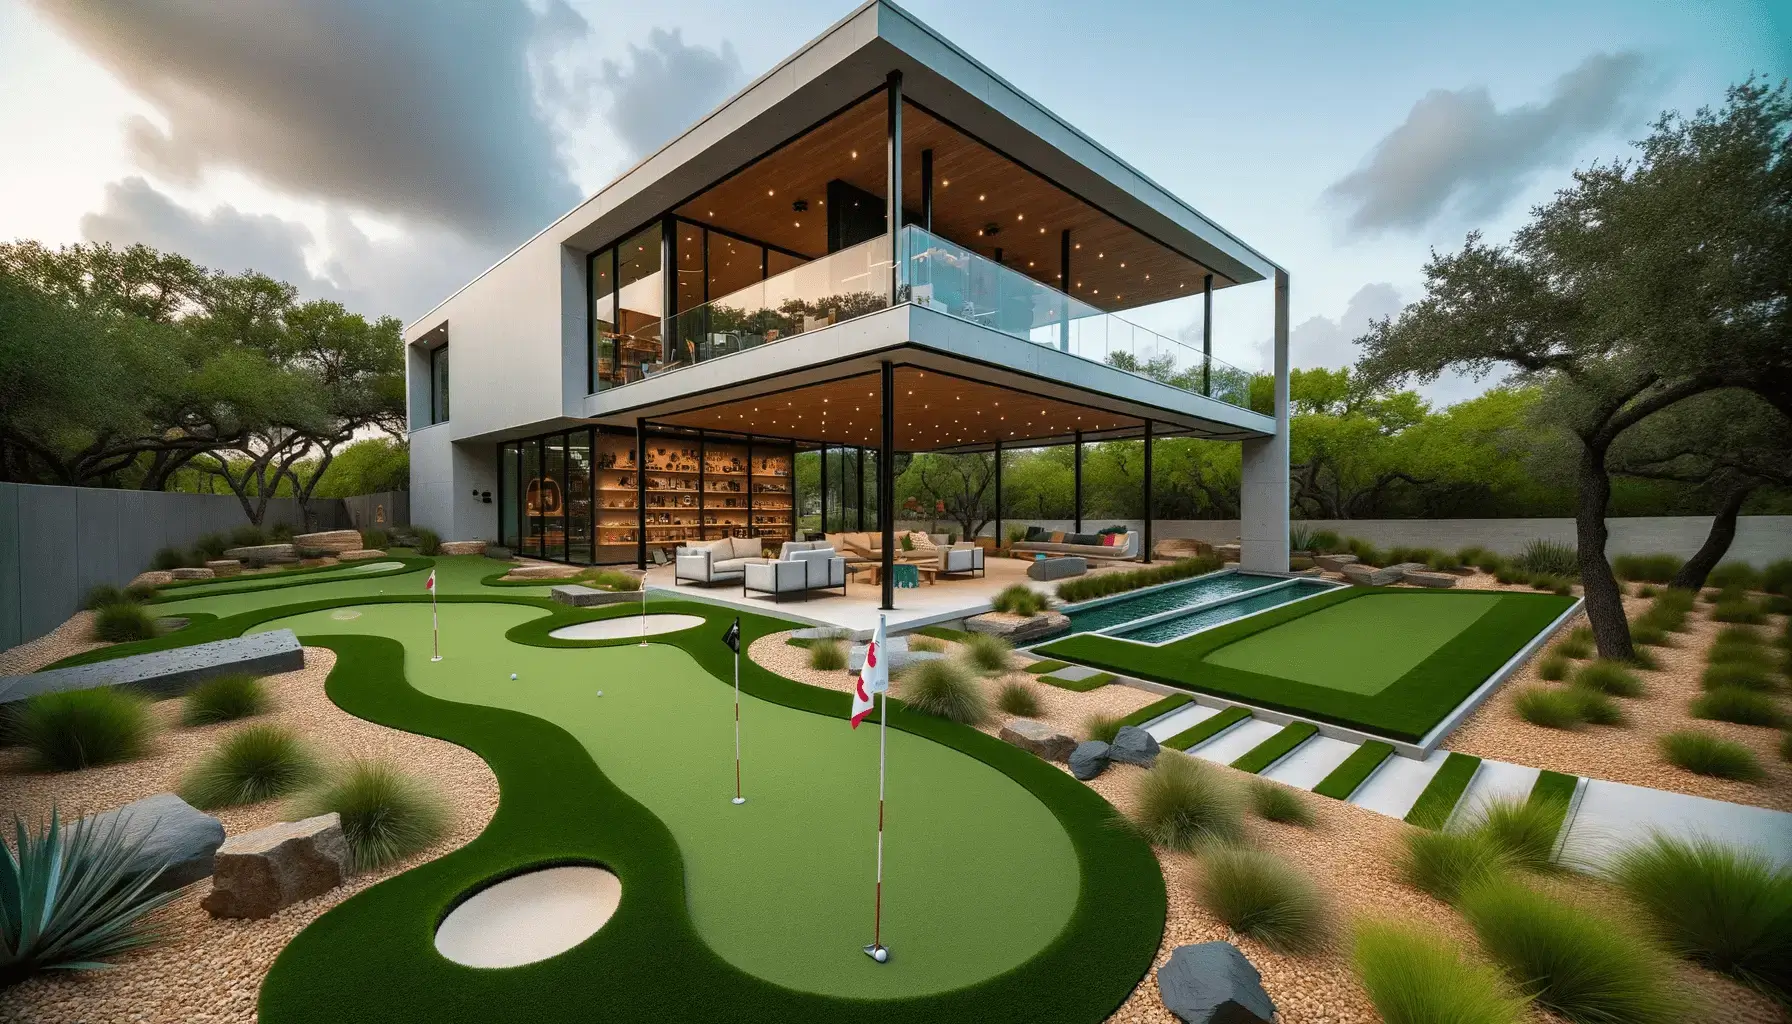
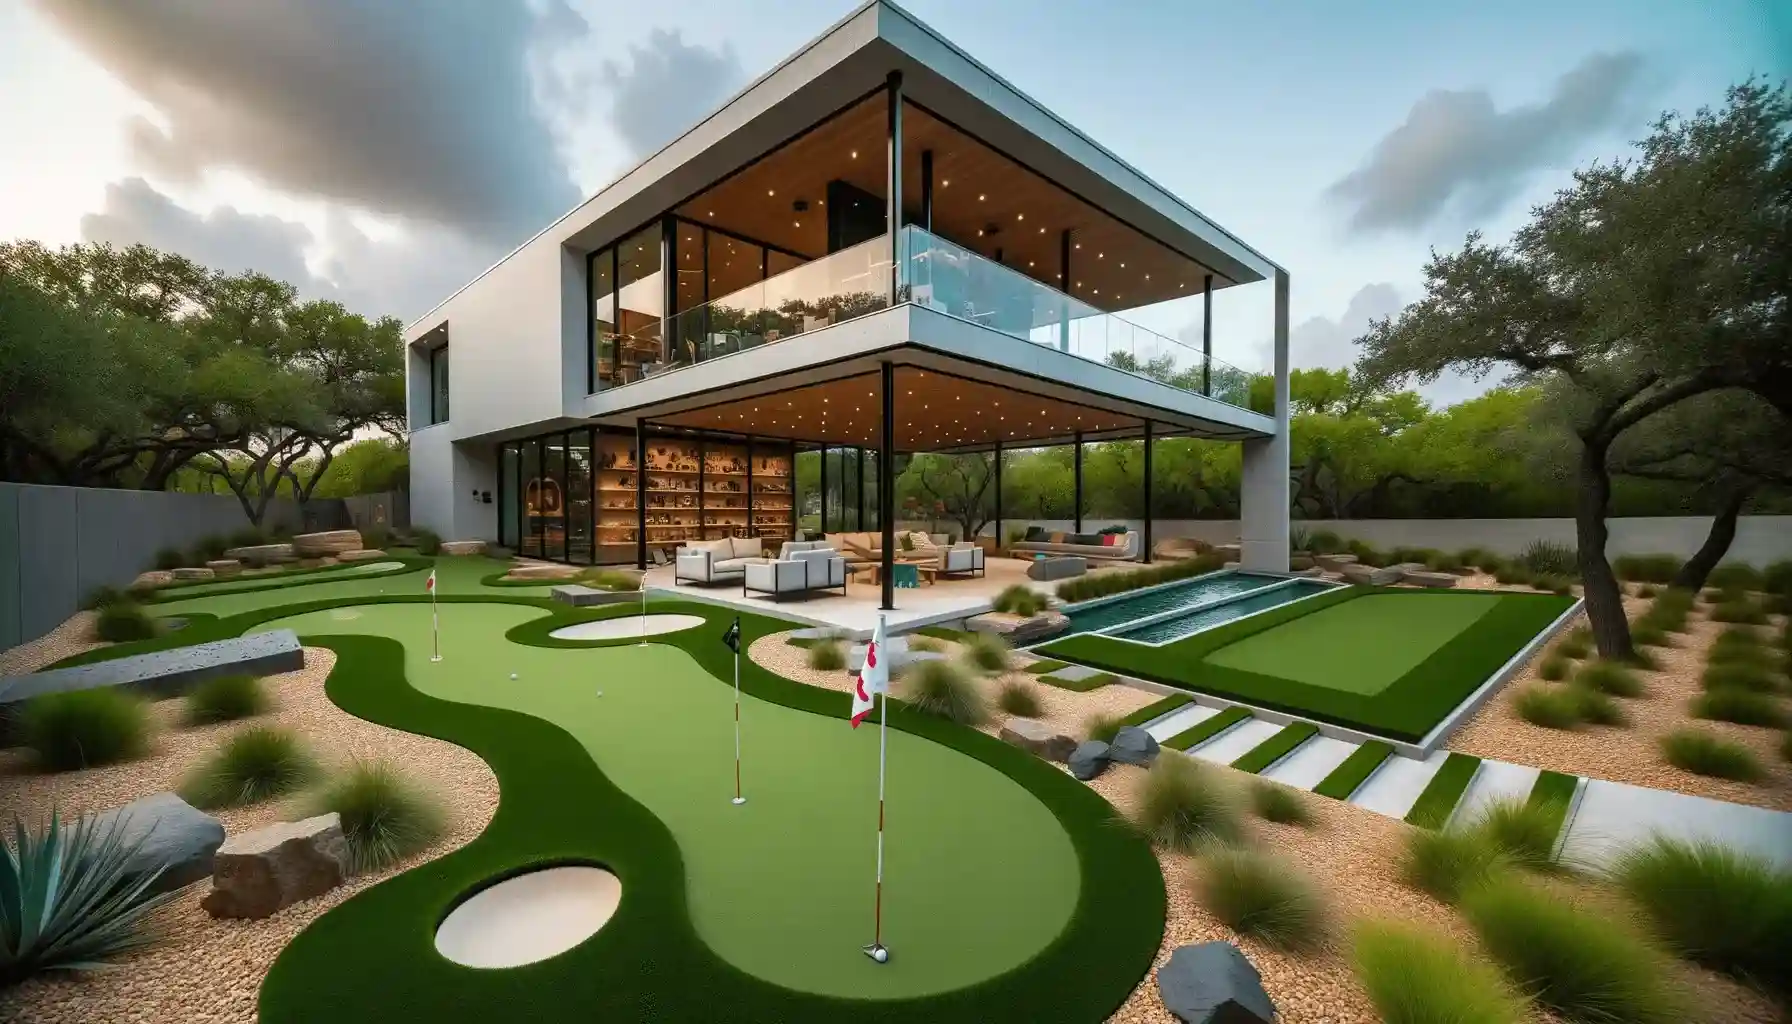
optimize hero imae

diff --git a/src/Pages/LandingPage/LandingPage.css b/src/Pages/LandingPage/LandingPage.css
@@ -85,6 +85,9 @@
         font-weight: bold;
         padding: 6px 20px;
     }
+    .landing_page{
+        background-image: url('../../assets/optimizeForMobile.webp');
+   }
 }
 @media only screen and (max-width: 462px) {
     .landing_page_hero_text{
